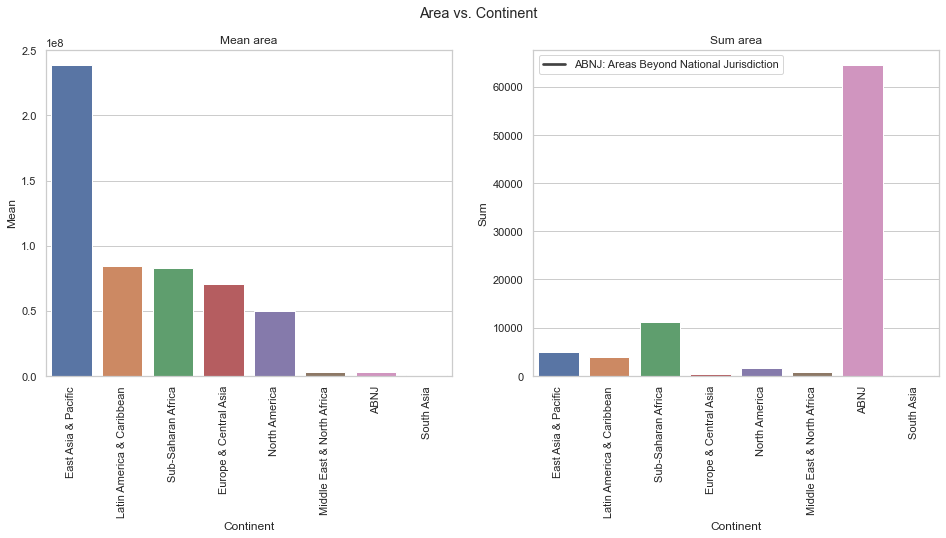
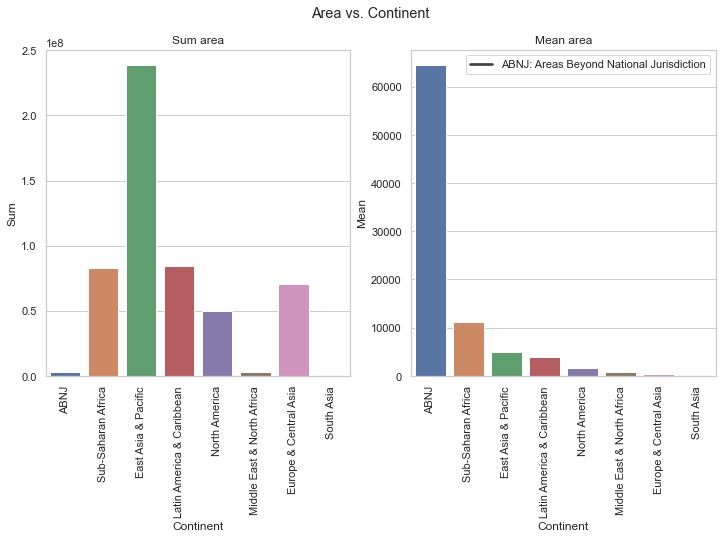
txt

diff --git a/streamlit_app.py b/streamlit_app.py
@@ -19,43 +19,33 @@ By using the datasets from the article mentioned above, we have:
 * 1M+ photo descriptions (including time and location) with 14 variables (124 MB)
 * Additional datasets related to protected areas
 
-Our dataset consists of more than 13000 locations for marine protected areas (13262 different WDPA_PID).
+The dataset consists of more than 13000 locations for marine protected areas (13262 different WDPA_PID).
 As we can see in the plot below, the Flickr users, are mostly posting pictures from Europe and Central Asia:
 '''
-
 st.image("figs/count by continent.png", caption=None, width=None, use_column_width="always", clamp=False, channels="RGB", output_format="auto")
 
 '''
-
-'''
-st.image("figs/area vs continent.png", caption=None, width=None, use_column_width="always", clamp=False, channels="RGB", output_format="auto")
-'''
-In terms of countries, most Marine Protected Areas are Breat Britain's territories, then Swedish, and then USA's: '''
+In terms of countries, most Marine Protected Areas are Great Britain's territories, then Swedish, and then USA's: '''
 st.image("figs/count by country.png", caption=None, width=None, use_column_width="always", clamp=False, channels="RGB", output_format="auto")
 '''
-This is a bit surprising, but a reason is that many Great Britain's territories, are small islands in remote areas, across all the globe. A secondary reason is that Britain, Sweden and USA, seem like they have been engeged more with their Marine Areas, and Protect them better than other countries. '''
-'''
-ABNJ PLOT COMMENTS '''
-# ABNJ PLOT
-
-'''
-COUNTRIES AREA PLOT COMMENTS '''
-'''
-MPA, CONTROL COUNT Comments
-'''
+This is a bit surprising, but a reason is that many Great Britain's territories, are small islands in remote areas, across all the globe, due to their colonial history. A secondary reason is that Britain, Sweden and USA, seem like they have been engaged more with their Marine Areas, and protect them better than other countries. '''
 
 
-st.markdown("## Data Analysis")
+st.image("figs/mean area by country.png", caption=None, width=None, use_column_width="always", clamp=False, channels="RGB", output_format="auto")
 '''
-Text for data analysis
+As it can be seen in the plot above, we tried to show top 30 countries with the biggest marine protected areas. Most of the places with the highest area are islands which are overseas territories of other countries like UK, France etc.
+The box plot reveals that most of the locations are very small and are less than 100 $km^2$. Going further to the details of the plots above and taking into account that only a couple of countries with high number of MPA locations are shown in the 'Mean Area by Country (top 30)' and also considering low amount of mean area of those countries, it can be concluded areas in countries with high number of MPA locations, are rather small places.'''
+
+
+st.image("figs/area vs continent.png", caption=None, width=None, use_column_width="always", clamp=False, channels="RGB", output_format="auto")
+'''
+From what we have seen in the previous plots, Areas Beyond National Jurisdiction (ABNJ) had the least number of protected areas among all the continents, while on the other hand, on the plots above ABNJ has the biggest locations with MPA areas with the mean of 60000 $km^2$. With further investigation in the dataset it is revealed there is only 2 vast areas located in ABNJ. Sub-Saharan Africa and East Asia & Pacific with the mean area of 10000 and almost 5000, are the other 2 continents with big marine protected areas respectively.
 '''
 
 
-
-st.markdown("### Temporal Data")
+st.markdown("### When do people visit coastal areas?")
 '''
-Text for Temporal data
-'''
+Let's do a temporal analysis of the data and see how often people go to coastal areas and take pictures and post them on Flickr. In this section, we analyze the number of photos taken in 2017, 2018, and 2019, in each month of the year, days of the month, weekday, and hour of the day. The below plot is interactive, which means that you can explore the dataset by yourself.'''
 # Temporal plots using Bokeh
 
 
@@ -66,9 +56,11 @@ components.html(source_code, height = 600)
 
 
 
-st.markdown("### Spatial Data")
+st.markdown("### Where Flickr users frequently going?")
 '''
-Text for spatial data
+The plot below, present us the MP areas where people are visiting the most. By the color of the area, we are able to understand how many posts have been made from there.
+
+As we can see in the map below, the biggest (in terms of area) MPAs, are small island in the middle of the Oceans, and some ABNJs. Thus, from their colors, we observe that they do not have many postings made from those areas. Specifically, the areas with a big amount of posts, are so small, that we cannot distinguish them in the global map, and we need to zoom in, in order to find them. Below, we created an interactive map, where we can see the top 100 (in terms of postings) areas in the Great Britain.
 '''
 st.image("figs/Choropleth map.png", caption=None, width=None, use_column_width="always", clamp=False, channels="RGB", output_format="auto")
 
